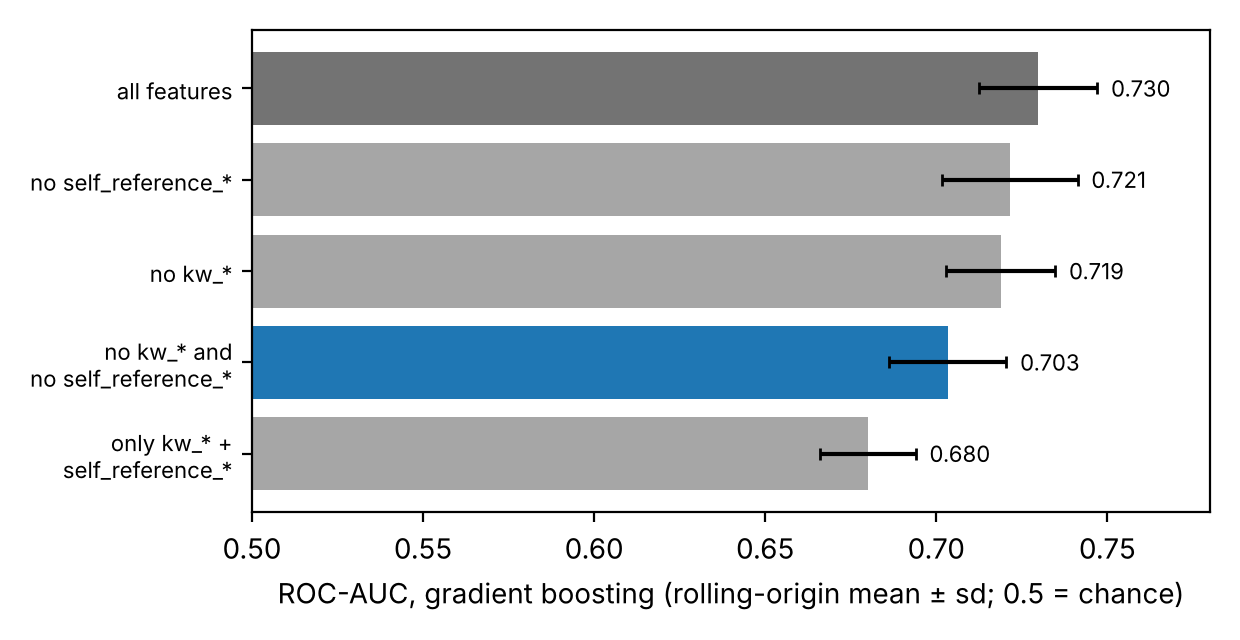
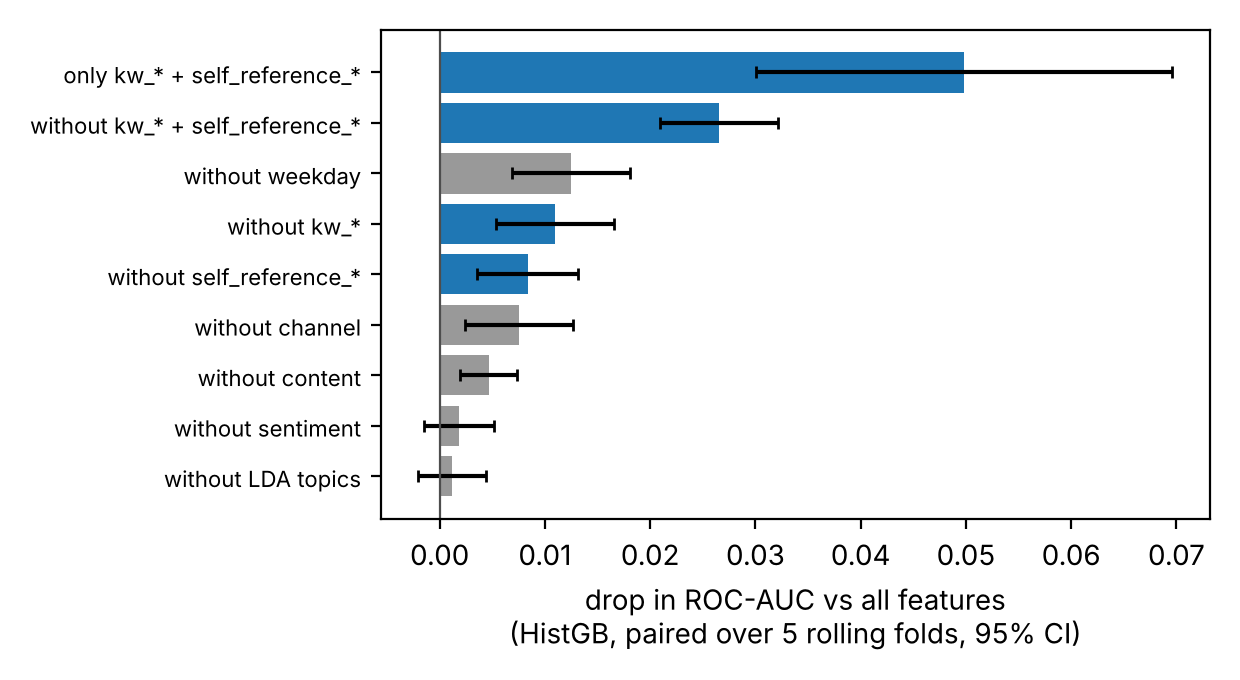
R4: E3 ablation as paired differences over rolling folds (#11)
Claude-Session: https://claude.ai/code/session_01TCfNdN2Zn6ui1ME3kdmCGP

diff --git a/scripts/e3_leakage.py b/scripts/e3_leakage.py
@@ -21,7 +21,7 @@ from scipy.stats import spearmanr
 from sklearn.metrics import roc_auc_score
 
 from newspop.data import ROOT, feature_groups, feature_set, load, make_label
-from newspop.evaluate import classification_report
+from newspop.evaluate import classification_report, paired_fold_diff
 from newspop.models import fit, get_model
 from newspop.splits import rolling_origin, temporal_split
 
@@ -54,7 +54,7 @@ def ablation(df, y, sets):
     n = len(df)
     tr, va, te = temporal_split(n, 0.7, 0.1)
     trv = np.concatenate([tr, va])
-    rows = []
+    rows, fold_aucs = [], {}
     for name, cols in sets.items():
         X = df[cols].to_numpy()
         for m in MODELS:
@@ -63,8 +63,13 @@ def ablation(df, y, sets):
             roll = []
             for a, b in rolling_origin(n, 5, 0.4):
                 roll.append(roc_auc_score(y[b], fit(get_model(m, 0), X[a], y[a]).predict_proba(X[b])[:, 1]))
-            rows.append({"feature_set": name, "n_features": len(cols), "model": m, **r,
-                         "rolling_auc_mean": np.mean(roll), "rolling_auc_std": np.std(roll)})
+            fold_aucs[(name, m)] = roll
+            row = {"feature_set": name, "n_features": len(cols), "model": m, **r,
+                   "rolling_auc_mean": np.mean(roll), "rolling_auc_std": np.std(roll)}
+            if name != "all":
+                pf = paired_fold_diff(fold_aucs[("all", m)], roll)
+                row.update({"drop_vs_all": pf["diff"], "drop_lo": pf["lo"], "drop_hi": pf["hi"]})
+            rows.append(row)
             print(f"{name:18s} {m:6s} test AUC {r['roc_auc']:.3f}  rolling {np.mean(roll):.3f}±{np.std(roll):.3f}")
     return pd.DataFrame(rows)
 
@@ -121,19 +126,20 @@ def main():
     ts.to_csv(TAB / "e3_time_signal.csv", index=False)
     print(ts.head(12).round(3).to_string())
 
-    # ---- figure: ablation (HistGB, rolling-origin mean ± sd)
-    order = ["all", "no_self_ref", "no_kw", "no_kw_ref", "only_kw_ref"]
-    labels = ["all features", "no self_reference_*", "no kw_*", "no kw_* and\nno self_reference_*",
-              "only kw_* +\nself_reference_*"]
-    s = abl[abl.model == "hgb"].set_index("feature_set").loc[order]
-    fig, ax = plt.subplots(figsize=(6.2, 3.2))
-    colors = ["0.45", "0.65", "0.65", "C0", "0.65"]
-    ax.barh(range(len(order))[::-1], s["rolling_auc_mean"], xerr=s["rolling_auc_std"],
-            color=colors, capsize=2)
-    for i, (v, sd) in enumerate(zip(s["rolling_auc_mean"], s["rolling_auc_std"])):
-        ax.text(v + sd + 0.004, len(order) - 1 - i, f"{v:.3f}", va="center", fontsize=8)
-    ax.set_yticks(range(len(order))[::-1], labels, fontsize=8)
-    ax.set_xlim(0.5, 0.78); ax.set_xlabel("ROC-AUC, gradient boosting (rolling-origin mean ± sd; 0.5 = chance)")
+    # ---- figure: ablation as paired drop vs all features (HistGB, 5 rolling folds, 95% t-CI)
+    order = [k for k in sets if k != "all"]
+    s = abl[(abl.model == "hgb") & (abl.feature_set != "all")].set_index("feature_set").loc[order]
+    s = s.sort_values("drop_vs_all")
+    fig, ax = plt.subplots(figsize=(6.2, 3.4))
+    colors = ["C0" if k in ("no_kw", "no_kw_ref", "only_kw_ref", "no_self_ref") else "0.6" for k in s.index]
+    ax.barh(range(len(s)), s["drop_vs_all"],
+            xerr=[s["drop_vs_all"] - s["drop_lo"], s["drop_hi"] - s["drop_vs_all"]], color=colors, capsize=2)
+    ax.axvline(0, color="0.3", lw=0.8)
+    pretty = {"only_kw_ref": "only kw_* + self_reference_*", "no_kw_ref": "without kw_* + self_reference_*",
+              "no_kw": "without kw_*", "no_self_ref": "without self_reference_*",
+              "drop_lda": "without LDA topics"}
+    ax.set_yticks(range(len(s)), [pretty.get(k, k.replace("drop_", "without ")) for k in s.index], fontsize=8)
+    ax.set_xlabel("drop in ROC-AUC vs all features\n(HistGB, paired over 5 rolling folds, 95% CI)")
     fig.tight_layout(); fig.savefig(FIG / "e3_ablation.png", dpi=200)
 
     # ---- figure: grouped permutation importance

diff --git a/docs/TASKS.md b/docs/TASKS.md
@@ -28,7 +28,7 @@ Review notes (2026-11-12): https://claude.ai/artifact/UnYjVnCpepjSA6yGzj5XMr —
 - [x] **R1 E3 rewrite (#8):** `kw_*` are point-in-time features that carry a clock, not leakage (kw_max_max = max shares of earlier articles for 99.7% of rows; kw_min_min = -1 in 8.5% of 2013 vs 99.9% of 2014). New point-in-time check script + staircase figure (kw_max_max vs running max over time). Drop pure clock columns (kw_max_max, kw_min_min, kw_min_min_missing; if needed kw_max_min, kw_min_max) and redo adversarial validation and predictive AUC. Rename RQ2 accordingly. Limitation: earlier articles' shares measured at collection time (Jan 2015).
 - [x] **R2 Main results table (#9):** tune HistGB, RF, LogReg, kNN on the validation block; touch test once; bootstrap 95% CIs for everything. Add bootstrap + paired-comparison helpers to `newspop/evaluate.py`. Reviewer's HistGB test AUC 0.733 [0.720, 0.743] → 0.01-level differences are "no detectable difference".
 - [x] **R3 E1 (#10):** error bars on monthly AUC (else no "decay" claim); rewrite "strong covariate shift" per the clock finding; add label-shift correction (shift probabilities to validation positive rate) as a one-line negative result (accuracy 0.667→0.661, Brier worse).
-- [ ] **R4 E3 ablation:** report paired differences across rolling folds with intervals, not two means with separate sds.
+- [x] **R4 E3 ablation (#11):** report paired differences across rolling folds with intervals, not two means with separate sds.
 - [ ] **R5 E4:** decision threshold currently set with `np.quantile` on test scores (transductive peeking) → set it on the validation block. Paired bootstrap CI for regressor vs classifier at the 95th percentile (~300 positives).
 - [ ] **R6 E7:** negative-sentiment effect is confounded by channel → CMH test or logistic regression with channel. Isolation Forest: profile the outliers; contamination 1% and 5% too.
 - [ ] **R7 E2:** half-life weighting under rolling-origin folds, paired differences, written as a negative result tied to "ranking is stable".

diff --git a/docs/results/e3_share_features.md b/docs/results/e3_share_features.md
@@ -44,9 +44,26 @@ Tables `results/tables/e3b_*.csv`, `e3_*.csv`; figures `e3b_staircase.png`, `e3_
    keyword averages still drift with the growing archive; content features alone still separate
    periods at 0.80, so there is genuine covariate drift too, but it does not hurt ranking (E1).
 
-5. **Importance** (unchanged from the first version): `keyword` is HistGB's most important group
-   (validation AUC drop 0.052 when permuted), then channel (0.034) and weekday (0.029).
+5. **Drop-one-group ablation, paired over 5 rolling folds** (drop in AUC vs all features, 95% t-interval;
+   `results/tables/e3_ablation.csv`, figure `e3_ablation.png`):
 
+   | Removed group | HistGB | Logistic regression |
+   | --- | --- | --- |
+   | `kw_*` + `self_reference_*` | 0.027 [0.021, 0.032] | 0.021 [0.020, 0.022] |
+   | weekday | 0.013 [0.007, 0.018] | 0.014 [0.008, 0.020] |
+   | `kw_*` | 0.011 [0.005, 0.017] | 0.015 [0.014, 0.017] |
+   | `self_reference_*` | 0.008 [0.004, 0.013] | 0.004 [0.002, 0.006] |
+   | channel | 0.008 [0.002, 0.013] | 0.008 [0.004, 0.013] |
+   | content | 0.005 [0.002, 0.007] | 0.006 [0.002, 0.010] |
+   | LDA topics | 0.001 [−0.002, 0.004] | 0.003 [−0.000, 0.006] |
+   | sentiment | 0.002 [−0.002, 0.005] | 0.001 [−0.001, 0.002] |
+
+   Removing LDA topics or the 16 sentiment features makes no detectable difference: the
+   information they carry is also available from the channel and keyword features. Keeping
+   *only* the 13 share-derived features loses 0.050 [0.030, 0.070] (HistGB).
+
+6. **Importance** (grouped permutation on the validation block): `keyword` is HistGB's most
+   important group (validation AUC drop 0.052 when permuted), then channel (0.034) and weekday (0.029).
 ## Limitation for the report
 
 The shares of earlier articles used to build these statistics were measured when the dataset
